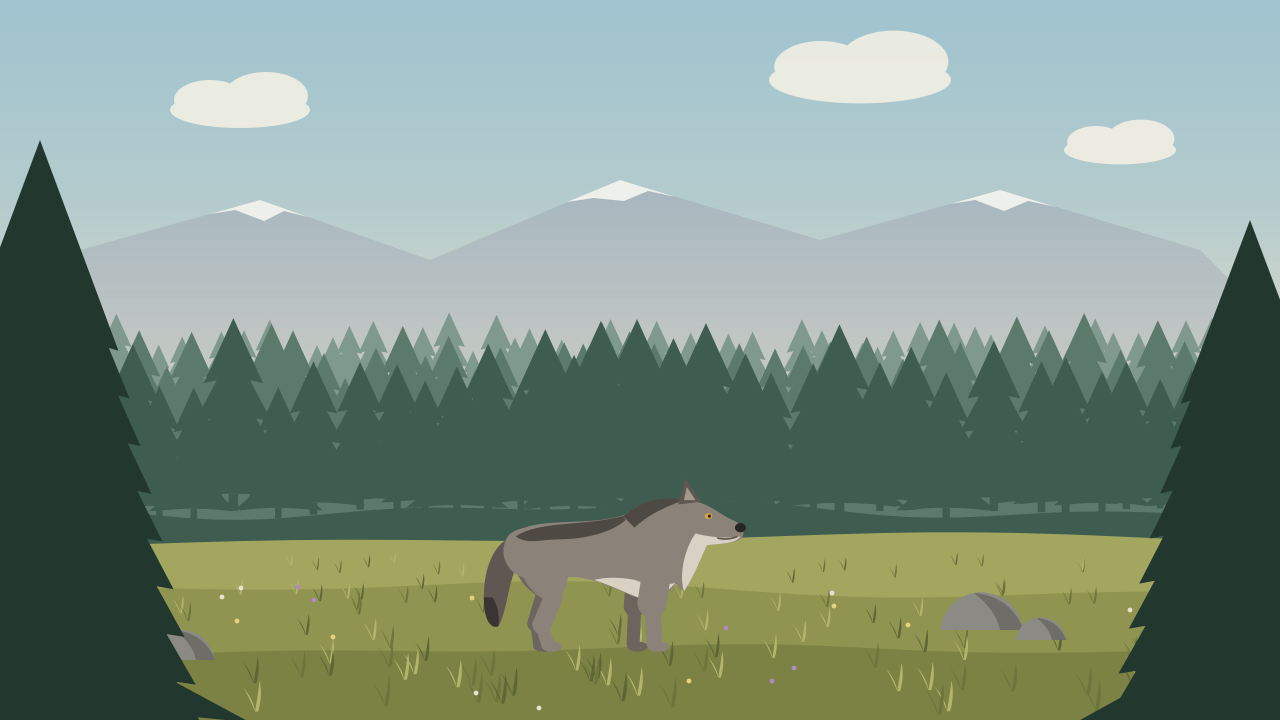
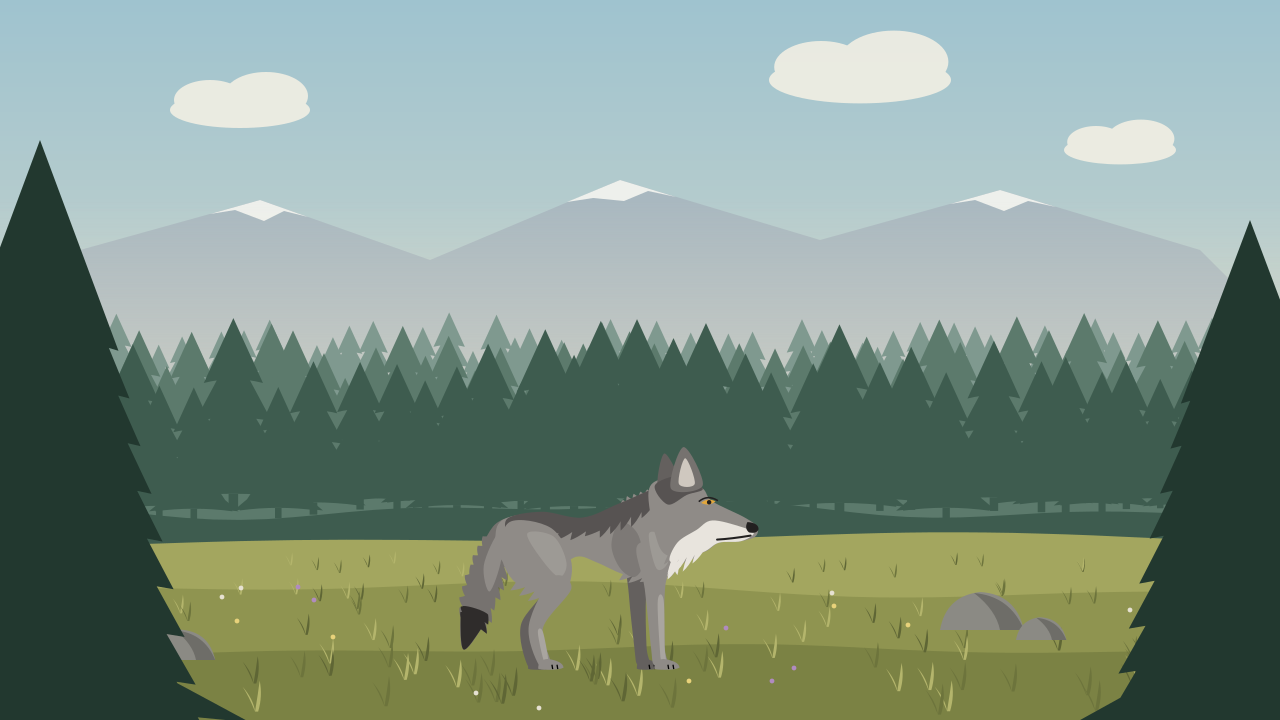
向量比較場景：依參考圖重畫向量灰狼（長腿、胸深腰細、毛邊、色面）
Claude-Session: https://claude.ai/code/session_01HkqM82v9towmCBuEomSQC3

Changed region(s): [[0.3438, 0.6111, 0.5938, 0.9472]]

diff --git a/arts/art_vector_test_2026-10-13/gen_vector.py b/arts/art_vector_test_2026-10-13/gen_vector.py
@@ -36,63 +36,142 @@ def rot(deg, cx, cy, inner):
     return f'<g transform="rotate({deg} {cx} {cy})">{inner}</g>'
 
 
+# ---------------- 形狀工具：平滑輪廓＋毛邊 ----------------
+def _norm(dx, dy):
+    l = math.hypot(dx, dy) or 1.0
+    return dx / l, dy / l
+
+
+def outline(spec, sweep=(-0.5, 0.35)):
+    """spec：點 (x, y) 與毛邊標記 ("fur", 深度, 撮數) 的序列，順時針描（畫面座標 y 向下）。
+    一般的邊用 Catmull-Rom 曲線；標記之後那一條邊改成一撮撮的毛，往外側、順著 sweep 方向翹。"""
+    pts, fur = [], {}
+    for e in spec:
+        if isinstance(e, tuple) and e and e[0] == "fur":
+            fur[len(pts) - 1] = e[1:]
+        else:
+            pts.append(e)
+    n = len(pts)
+    d = [f"M{pts[0][0]:.1f} {pts[0][1]:.1f}"]
+    for i in range(n):
+        a, b = pts[i], pts[(i + 1) % n]
+        if i in fur:
+            depth, count = fur[i]
+            tx, ty = _norm(b[0] - a[0], b[1] - a[1])
+            ox, oy = ty, -tx          # 順時針描時的外側
+            for k in range(count):
+                p0 = (a[0] + (b[0] - a[0]) * k / count, a[1] + (b[1] - a[1]) * k / count)
+                p1 = (a[0] + (b[0] - a[0]) * (k + 1) / count, a[1] + (b[1] - a[1]) * (k + 1) / count)
+                dep = depth * (0.75 + 0.5 * ((k * 7919) % 5) / 4)
+                tip = (p1[0] + (ox + sweep[0]) * dep, p1[1] + (oy + sweep[1]) * dep)
+                c1 = (p0[0] + (tip[0] - p0[0]) * 0.55 + ox * dep * 0.25, p0[1] + (tip[1] - p0[1]) * 0.55 + oy * dep * 0.25)
+                c2 = ((tip[0] + p1[0]) / 2 - ox * dep * 0.1, (tip[1] + p1[1]) / 2 - oy * dep * 0.1)
+                d.append(f"Q{c1[0]:.1f} {c1[1]:.1f} {tip[0]:.1f} {tip[1]:.1f} Q{c2[0]:.1f} {c2[1]:.1f} {p1[0]:.1f} {p1[1]:.1f}")
+        else:
+            p0, p3 = pts[(i - 1) % n], pts[(i + 2) % n]
+            c1 = (a[0] + (b[0] - p0[0]) / 6, a[1] + (b[1] - p0[1]) / 6)
+            c2 = (b[0] - (p3[0] - a[0]) / 6, b[1] - (p3[1] - a[1]) / 6)
+            d.append(f"C{c1[0]:.1f} {c1[1]:.1f} {c2[0]:.1f} {c2[1]:.1f} {b[0]:.1f} {b[1]:.1f}")
+    return " ".join(d) + " Z"
+
+
+def leg_shape(joints, widths):
+    """沿關節的錐形腿：每個關節給寬度，左右兩邊各偏移一半，連成平滑輪廓。"""
+    n = len(joints)
+    left, right = [], []
+    for i, (x, y) in enumerate(joints):
+        if i == 0:
+            tx, ty = _norm(joints[1][0] - x, joints[1][1] - y)
+        elif i == n - 1:
+            tx, ty = _norm(x - joints[i - 1][0], y - joints[i - 1][1])
+        else:
+            ax, ay = _norm(x - joints[i - 1][0], y - joints[i - 1][1])
+            bx, by = _norm(joints[i + 1][0] - x, joints[i + 1][1] - y)
+            tx, ty = _norm(ax + bx, ay + by)
+        w = widths[i] / 2
+        left.append((x + ty * w, y - tx * w))
+        right.append((x - ty * w, y + tx * w))
+    return right + left[::-1]
+
+
+def paw_shape(x, y, fill, r=7.5):
+    """腳掌：前低後高的橢圓，加兩條趾縫。"""
+    return (f'<path d="M{x-r} {y} Q{x-r} {y-6} {x-1} {y-6.5} Q{x+r+2} {y-5} {x+r+2.5} {y-0.5} Q{x+r} {y+1} {x} {y+1} Q{x-r} {y+1} {x-r} {y} Z" fill="{fill}"/>'
+            f'<path d="M{x+2} {y-2.5} L{x+2.5} {y+0.5} M{x+5.5} {y-2.5} L{x+6} {y+0.5}" stroke="#00000033" stroke-width="0.9"/>')
+
+
 # ---------------- 灰狼 ----------------
 WOLF_PALETTES = {
-    "gray": dict(base="#8b8379", dark="#5f5852", saddle="#4f4944", light="#d9d1c3",
-                 far="#6c655e", nose="#2a2624", eye="#d9a441", tip="#3a3532"),
-    "black": dict(base="#3b3a3d", dark="#2a292c", saddle="#222124", light="#5c5a5e",
-                  far="#2c2b2e", nose="#141315", eye="#e0b545", tip="#1a191b"),
+    # base 主色、shade 陰影面、light 亮面、cream 臉頰與胸前、saddle 背上深色、far 遠側
+    "gray": dict(base="#8f8b87", shade="#76726f", light="#a9a5a0", cream="#e8e4dd", saddle="#575352",
+                 far="#64605e", nose="#222020", eye="#e2a73c", tip="#2f2c2b", ear_in="#cfc8bf"),
+    "black": dict(base="#3d3c40", shade="#2f2e32", light="#4d4c51", cream="#6a686d", saddle="#232226",
+                  far="#28272b", nose="#121113", eye="#e4b54a", tip="#18171a", ear_in="#5a585d"),
 }
 
 
 def wolf(pal, pose=None, scale=1.0):
-    """畫布 240x160、腳底 y=150、朝右。pose 為部件角度。"""
+    """畫布 240x160、腳底 y=164、朝右。腿長約等於胸深，胸深、腰細。pose 為部件角度（度）。"""
     p = WOLF_PALETTES[pal]
-    q = dict(head=0, tail=0, fl=0, fr=0, hl=0, hr=0, body_dy=0)
+    q = dict(head=0, tail=0, fl=0, fr=0, hl=0, hr=0)
     q.update(pose or {})
-    dy = q["body_dy"]
+    P = lambda spec, fill, sweep=(-0.5, 0.35), extra="": path(outline(spec, sweep), fill, extra)
+    L = lambda joints, widths, fill: path(outline(leg_shape(joints, widths)), fill)
     g = []
-    D = lambda d: re.sub(r"Y(-?[\d.]+)", lambda m: f"{float(m.group(1)) + dy:g}", d)
-    # 遠側的腿（顏色較深）
-    g.append(rot(q["fr"], 150, 96 + dy, limb([(150, 96 + dy), (148, 120 + dy), (147, 146)], [15, 9], p["far"]) + paw(147, 150, p["far"])))
-    g.append(rot(q["hr"], 80, 92 + dy, path(D("M64 Y84 C66 Y70 92 Y72 96 Y88 C98 Y102 92 Y112 86 Y116 C78 Y112 64 Y102 64 Y84 Z"), p["far"])
-                 + limb([(86, 112 + dy), (80, 132), (82, 146)], [12, 8], p["far"]) + paw(82, 150, p["far"])))
-    # 尾巴：蓬鬆、自然下垂
-    tail = path(D("M64 Y72 C52 Y76 44 Y92 44 Y114 C44 Y128 48 Y136 54 Y134 C60 Y124 60 Y108 66 Y94 C68 Y86 70 Y80 72 Y76 Z"), p["dark"])
-    tail += path(D("M44 Y114 C44 Y128 48 Y136 54 Y134 C55 Y128 54 Y120 50 Y114 Z"), p["tip"])
-    g.append(rot(q["tail"], 68, 74 + dy, tail))
-    # 身體：前段（胸）比後段厚約 1.15 倍，腰身收起
-    body = D("M72 Y66 C88 Y60 118 Y64 138 Y58 C150 Y54 166 Y54 174 Y62 C184 Y72 182 Y96 174 Y108 "
-             "C166 Y116 152 Y116 144 Y112 C130 Y106 118 Y100 104 Y100 C92 Y100 80 Y104 70 Y100 "
-             "C60 Y96 56 Y86 58 Y78 C60 Y70 64 Y68 72 Y66 Z")
-    g.append(path(body, p["base"]))
-    # 背上較深的鞍形毛
-    g.append(path(D("M66 Y72 C84 Y60 118 Y66 146 Y56 C138 Y68 116 Y74 96 Y74 C84 Y74 74 Y78 66 Y72 Z"), p["saddle"]))
-    # 胸前、腹部的淺色
-    g.append(path(D("M120 Y102 C132 Y106 140 Y110 150 Y114 C160 Y116 170 Y112 176 Y104 C170 Y106 158 Y106 148 Y102 C138 Y100 128 Y100 120 Y102 Z"), p["light"]))
-    # 近側的後腿：大腿是一塊厚實的形狀，接小腿與跗關節
-    g.append(rot(q["hl"], 86, 90 + dy, path(D("M68 Y86 C70 Y70 98 Y72 102 Y90 C104 Y104 98 Y114 92 Y118 C82 Y116 68 Y104 68 Y86 Z"), p["base"])
-                 + limb([(92, 114 + dy), (84, 133), (88, 146)], [13, 9], p["base"]) + paw(88, 150, p["base"])))
-    # 近側的前腿：上臂粗、肘部明顯
-    g.append(rot(q["fl"], 162, 96 + dy, limb([(164, 92 + dy), (160, 118 + dy), (162, 146)], [20, 11], p["base"]) + paw(162, 150, p["base"])))
-    # 頭與頸：頸毛厚、頭不抬太高、口鼻鈍
-    hx, hy = 172, 72 + dy
-    head = (path(D("M140 Y58 C154 Y46 174 Y44 190 Y48 C200 Y50 206 Y56 214 Y60 "
-                   "C222 Y63 225 Y68 222 Y73 C218 Y77 208 Y77 198 Y78 "
-                   "C194 Y86 190 Y98 182 Y110 C168 Y98 154 Y76 140 Y58 Z"), p["base"])
-            # 臉頰到喉嚨的淺色
-            + path(D("M190 Y70 C198 Y72 210 Y74 221 Y72 C218 Y77 208 Y77 198 Y78 C194 Y86 190 Y98 182 Y110 C178 Y96 184 Y78 190 Y70 Z"), p["light"])
-            # 頸背的深色毛
-            + path(D("M140 Y58 C154 Y46 170 Y44 182 Y47 C168 Y52 156 Y58 148 Y66 Z"), p["saddle"])
-            # 耳朵
-            + path(D("M178 Y50 L183 Y32 L194 Y48 Z"), p["dark"])
-            + path(D("M182 Y47 L184 Y38 L190 Y47 Z"), p["light"], 'opacity="0.55"')
-            # 鼻子、眼睛、嘴線
-            + f'<ellipse cx="221" cy="{66+dy}" rx="3.8" ry="3.2" fill="{p["nose"]}"/>'
-            + f'<ellipse cx="199" cy="{58+dy}" rx="2.6" ry="2" fill="{p["eye"]}"/>'
-            + f'<circle cx="199.6" cy="{58+dy}" r="1.1" fill="{p["nose"]}"/>'
-            + f'<path d="M205 {73+dy} Q212 {75+dy} 219 {72+dy}" stroke="{p["dark"]}" stroke-width="1.2" fill="none"/>')
-    g.append(rot(q["head"], hx, hy, head))
+    # 遠側的腿（深色）
+    g.append(rot(q["fr"], 152, 88, L([(152, 86), (150, 112), (152, 148), (154, 160)], [18, 12, 8.5, 8], p["far"]) + paw_shape(156, 163, p["far"], 6.5)))
+    g.append(rot(q["hr"], 82, 84, L([(80, 84), (94, 106), (74, 134), (78, 160)], [24, 14, 9, 8], p["far"]) + paw_shape(81, 163, p["far"], 6.5)))
+    # 尾巴：蓬鬆下垂、兩側毛邊、尾尖深色
+    tail_spec = [(62, 62), (60, 86), ("fur", 3, 4), (52, 114), ("fur", 3, 3), (42, 136), (30, 150),
+                 (28, 128), ("fur", 4, 4), (34, 98), ("fur", 4, 4), (46, 72), (54, 62)]
+    tail = P(tail_spec, p["shade"], (0.2, 0.4))
+    tail += P([(47, 126), ("fur", 3, 2), (42, 136), (30, 150), (28, 128), ("fur", 2, 2), (30, 120)], p["tip"], (0.2, 0.4))
+    tail += P([(54, 70), (56, 88), (48, 110), (44, 92)], p["light"], extra='opacity="0.5"')
+    g.append(rot(q["tail"], 60, 66, tail))
+    # 身體＋頸：背線平、胸深、腰收；頸背、胸前、腹下有毛邊
+    body = [(58, 60), (84, 56), (112, 60), (138, 50), ("fur", 3, 8), (172, 36),
+            (186, 64), ("fur", 5, 6), (176, 96), ("fur", 4, 4), (160, 102), ("fur", 3, 3), (140, 98),
+            (122, 90), (108, 86), (92, 96), (72, 100), (56, 88), (52, 72)]
+    g.append(P(body, p["base"], (-0.6, 0.3)))
+    # 肩後的陰影面、背上的深色鞍形毛（下緣是毛邊）
+    g.append(P([(138, 62), (150, 70), (154, 90), (148, 100), (138, 94), (132, 78)], p["shade"], extra='opacity="0.7"'))
+    g.append(P([(60, 60), (84, 55), (112, 59), (138, 49), (166, 38), (160, 52), ("fur", 4, 5), (124, 68), ("fur", 3, 4), (86, 70), (64, 74)], p["saddle"], (-0.4, 0.5)))
+    # 胸前與喉嚨的淺色毛
+    g.append(P([(180, 66), (186, 66), ("fur", 5, 5), (176, 96), ("fur", 4, 3), (162, 102), (166, 88), (172, 74)], p["cream"], (-0.6, 0.3)))
+    # 近側後腿：厚實的大腿，後緣是「褲腳」毛邊
+    thigh = [(62, 62), (90, 66), (104, 88), (102, 108), (92, 116), ("fur", 4, 4), (66, 104), (56, 84)]
+    hl = (P(thigh, p["base"], (-0.5, 0.4))
+          + P([(74, 70), (92, 72), (101, 90), (96, 100), (84, 88)], p["light"], extra='opacity="0.55"')
+          + L([(98, 104), (80, 134), (86, 160)], [15, 10, 8], p["base"])
+          + path(outline(leg_shape([(83, 138), (87, 158)], [3.5, 3])), p["light"])
+          + paw_shape(89, 163, p["base"]))
+    g.append(rot(q["hl"], 84, 84, hl))
+    # 近側前腿：肩胛、上臂粗、腕部細，前緣有一道亮面
+    fl = (L([(162, 78), (162, 108), (164, 148), (166, 160)], [24, 14, 9.5, 9], p["base"])
+          + P([(158, 70), (170, 74), (171, 90), (163, 94)], p["light"], extra='opacity="0.55"')
+          + path(outline(leg_shape([(166, 116), (167, 148), (168, 158)], [4, 3.5, 3])), p["light"])
+          + paw_shape(169, 163, p["base"]))
+    g.append(rot(q["fl"], 162, 80, fl))
+    # 頭：額頭到口鼻收細、鼻樑長；臉頰毛往後下方翹；耳朵大
+    hx, hy = 178, 60
+    head = (P([(166, 38), (174, 30), (188, 30), (200, 36), (206, 44), (226, 54), (234, 60), (233, 66),
+               (224, 69), (210, 70), (200, 76), ("fur", 4, 4), (178, 78), (170, 64)], p["base"], (-0.7, 0.4))
+            # 遠側的耳朵
+            + P([(172, 36), (176, 14), (186, 34)], p["far"])
+            # 口鼻與臉頰的淺色
+            + P([(206, 56), (224, 60), (232, 64), (224, 69), (210, 70), (200, 76), ("fur", 5, 4), (180, 82), (184, 70), (196, 62)], p["cream"], (-0.7, 0.5))
+            # 額頭到頸背的深色
+            + P([(170, 34), (186, 28), (200, 36), (190, 40), (178, 46)], p["saddle"])
+            # 近側的耳朵（外深內淺）
+            + P([(180, 36), (188, 10), (200, 34)], p["shade"])
+            + P([(185, 33), (189, 17), (195, 33)], p["ear_in"])
+            # 眼睛（杏仁形）、鼻子、嘴線
+            + f'<path d="M199 45 Q203 41.5 208 44 Q204 47.5 199 45 Z" fill="{p["eye"]}"/>'
+            + f'<circle cx="204" cy="44.6" r="1.4" fill="{p["nose"]}"/>'
+            + f'<path d="M197.5 44.2 Q203 39.5 209.5 43.6" stroke="{p["nose"]}" stroke-width="1" fill="none"/>'
+            + f'<path d="M228 57 Q235 57.5 235 61.5 Q234 64.5 229 63.5 Q226 61 228 57 Z" fill="{p["nose"]}"/>'
+            + f'<path d="M209 68 Q218 67.5 230 65.5" stroke="{p["nose"]}" stroke-width="1.3" fill="none" stroke-linecap="round"/>')
+    g.append(f'<g transform="translate(-6 5) translate(190 56) scale(1.1) translate(-190 -56)">' + rot(q["head"], hx, hy, head) + '</g>')
     inner = "".join(g)
     return f'<g transform="scale({scale})">{inner}</g>'
 
@@ -189,7 +268,7 @@ def preview():
     bg = background_meadow()
     render(bg, os.path.join(HERE, "preview_meadow.png"))
     # 灰狼與黑狼的單張與擺在背景上的樣子
-    pair = svg(500, 170, f'<rect width="500" height="170" fill="#e9e3d6"/>'
+    pair = svg(500, 176, f'<rect width="500" height="176" fill="#e9e3d6"/>'
                f'{wolf("gray")}<g transform="translate(250 0)">{wolf("black")}</g>')
     render(pair, os.path.join(HERE, "preview_wolves.png"), 1000)
     scene = bg.replace("</svg>", f'<g transform="translate(420 432) scale(1.45)">{wolf("gray")}</g></svg>')
